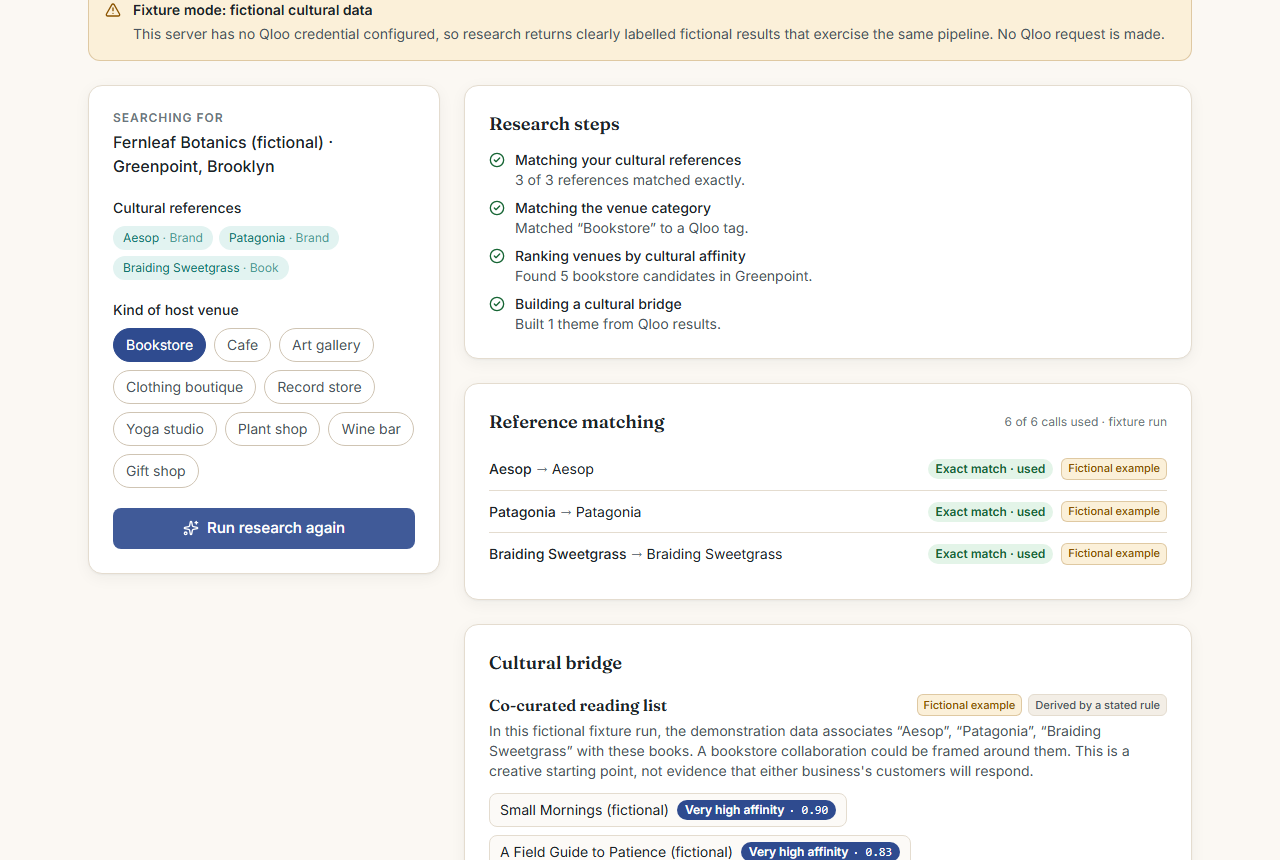
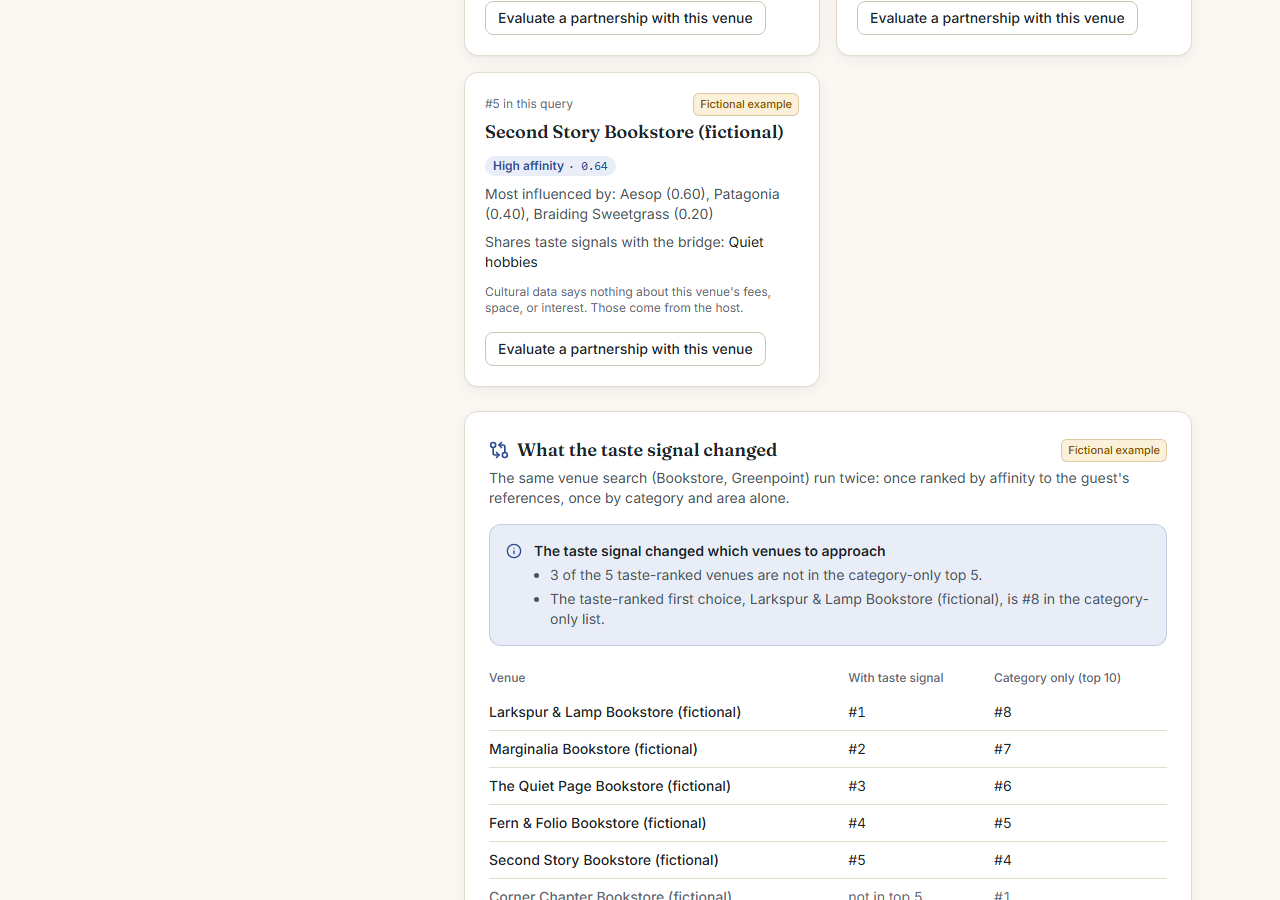
fix: say when the venue is real and only its terms are hypothetical; refresh fixture-mode screenshots

diff --git a/scripts/screenshots.ts b/scripts/screenshots.ts
@@ -1,6 +1,7 @@
 /**
- * Captures README screenshots from a running local instance (fixture mode, fictional example).
- * Usage: npm run dev (or preview), then: npx tsx scripts/screenshots.ts [baseUrl]
+ * Captures README screenshots from a running local instance in fixture mode (fictional data only, never Qloo
+ * responses), following the guided example.
+ * Usage: npm run dev:fixture, then: npx tsx scripts/screenshots.ts [baseUrl]
  */
 import { mkdirSync } from "node:fs";
 import { chromium } from "@playwright/test";
@@ -9,27 +10,38 @@ const base = process.argv[2] ?? "http://localhost:5173";
 mkdirSync("docs/images", { recursive: true });
 
 const browser = await chromium.launch();
-const page = await browser.newPage({ viewport: { width: 1280, height: 860 }, deviceScaleFactor: 1 });
+const page = await browser.newPage({ viewport: { width: 1280, height: 900 }, deviceScaleFactor: 1 });
 await page.setExtraHTTPHeaders({ "cf-connecting-ip": "10.20.30.40" });
+
+const health = (await (await page.request.get(`${base}/api/health`)).json()) as { research: { mode: string } };
+if (health.research.mode !== "fixture") throw new Error("Screenshots must come from fixture mode, so no Qloo data reaches the repository.");
 
 await page.goto(base);
 await page.screenshot({ path: "docs/images/landing.png" });
 
-await page.getByRole("button", { name: /Try the fictional example/ }).click();
-await page.getByRole("button", { name: /Save and continue/ }).click();
-await page.getByRole("button", { name: "Run cultural research" }).click();
-await page.getByRole("heading", { name: "Venue candidates" }).waitFor();
-await page.getByRole("heading", { name: "Cultural bridge" }).scrollIntoViewIfNeeded();
+await page.getByRole("button", { name: /See it in 90 seconds/ }).click();
+await page.getByRole("table", { name: /with the taste signal and with category only/ }).waitFor();
+await page.getByRole("heading", { name: "What the taste signal changed" }).scrollIntoViewIfNeeded();
 await page.screenshot({ path: "docs/images/discovery.png" });
 
-await page.goto(`${base}/workspace/frontier`);
-await page.getByRole("heading", { name: "Trade-offs" }).waitFor();
-await page.getByRole("heading", { name: "Trade-offs" }).scrollIntoViewIfNeeded();
+const guide = page.getByRole("complementary", { name: "Guided example" });
+await guide.getByRole("button", { name: /^Choose / }).click();
+await page.getByText("Where the two sides meet").waitFor();
+await page.getByText("Chosen from cultural research").scrollIntoViewIfNeeded();
+await page.screenshot({ path: "docs/images/host.png" });
+
+await guide.getByRole("button", { name: "See which arrangements work" }).click();
+await page.getByRole("heading", { name: "Agreement Frontier", level: 1 }).waitFor();
 await page.screenshot({ path: "docs/images/frontier.png" });
 
-await page.goto(`${base}/workspace/reversal?option=cohosted_event%3A2`);
-await page.getByRole("heading", { name: "Why is this blocked?" }).scrollIntoViewIfNeeded();
-await page.screenshot({ path: "docs/images/reversal.png", fullPage: false });
+await guide.getByRole("button", { name: "Find the smallest change" }).click();
+await page.getByRole("button", { name: /Apply this change/ }).click();
+await page.getByRole("status").filter({ hasText: "You applied" }).waitFor();
+await page.screenshot({ path: "docs/images/reversal.png" });
+
+await guide.getByRole("button", { name: "Build the decision brief" }).click();
+await page.getByRole("heading", { name: "Activation idea" }).scrollIntoViewIfNeeded();
+await page.screenshot({ path: "docs/images/brief.png" });
 
 await browser.close();
-console.log("Saved docs/images/{landing,discovery,frontier,reversal}.png");
+console.log("Saved docs/images/{landing,discovery,host,frontier,reversal,brief}.png");

diff --git a/src/client/app/Workspace.tsx b/src/client/app/Workspace.tsx
@@ -105,12 +105,20 @@ export function Workspace() {
         </Button>
       </div>
 
-      {state.isExample && (
-        <Callout tone="warn" className="no-print mt-5" title="Fictional example">
-          Both businesses and all of their terms are invented to demonstrate the method. Cultural references are real public names the fictional
-          guest identifies with. Edit anything, or start your own scenario from the home page.
-        </Callout>
-      )}
+      {state.isExample &&
+        (state.host?.source === "hypothetical_scenario" && state.selection?.mode === "live" ? (
+          <Callout tone="warn" className="no-print mt-5" title="Fictional guest, real venue, hypothetical terms">
+            The guest business is invented to demonstrate the method. {state.host.venueName} is a real place suggested by Qloo; every term shown for it
+            is a fictional placeholder that it has not seen or agreed to.
+          </Callout>
+        ) : (
+          <Callout tone="warn" className="no-print mt-5" title="Fictional example">
+            {state.host?.source === "fictional_example" || state.selection?.mode === "fixture"
+              ? "Both businesses and all of their terms are invented to demonstrate the method."
+              : "The guest business and its terms are invented to demonstrate the method."}{" "}
+            Cultural references are real public names the fictional guest identifies with. Edit anything, or start your own scenario from the home page.
+          </Callout>
+        ))}
 
       {!gate && <GuideBanner step={step} />}
 

diff --git a/tests/e2e/guided.spec.ts b/tests/e2e/guided.spec.ts
@@ -32,6 +32,7 @@ test("guided example: cultural reason, chosen venue, why it fails, one change, a
   await expect(page.getByText("From the guest's references")).toBeVisible();
   await expect(page.getByText(`Hypothetical terms: ${venue} has not stated or agreed to any of them`)).toBeVisible();
   await expect(page.getByText("Hypothetical terms · not from the venue")).toBeVisible();
+  if (mode === "live") await expect(page.getByText("Fictional guest, real venue, hypothetical terms")).toBeVisible();
   await expectNoHorizontalScroll(page);
 
   await guide.getByRole("button", { name: "See which arrangements work" }).click();

diff --git a/README.md b/README.md
@@ -36,15 +36,19 @@ Both replaces "this won't work" with "this would work if…", and is honest abou
 | **Decision brief** | A printable draft for both parties: proposed starting point, each side's value hypothesis, the first three questions to ask, cultural evidence with sources, and inputs grouped by provenance. |
 
 <p>
-  <img src="docs/images/discovery.png" alt="Cultural discovery with venue candidates and a cultural bridge" width="49%" />
-  <img src="docs/images/frontier.png" alt="Agreement Frontier trade-off chart and summary" width="49%" />
+  <img src="docs/images/discovery.png" alt="What the taste signal changed: the same venue search with and without the guest's references" width="49%" />
+  <img src="docs/images/host.png" alt="A chosen venue with the guest's side and the venue's own side of the cultural bridge" width="49%" />
+</p>
+<p>
+  <img src="docs/images/frontier.png" alt="Agreement Frontier headline: why the obvious event fails and the closest verified change" width="49%" />
+  <img src="docs/images/reversal.png" alt="Decision Reversal after applying one change, with the before and after status" width="49%" />
 </p>
 
-![Decision Reversal showing why an option is blocked and the what-if controls](docs/images/reversal.png)
+![Decision brief with the hypothetical-terms warning and the activation idea](docs/images/brief.png)
 
-*Screenshots show the fictional example in fixture mode. Both businesses are invented, and fixture cultural
-data is labelled fictional throughout the app. In live mode the same screens show Qloo results labelled
-"Observed in Qloo" with their source request and retrieval time.*
+*Screenshots show the guided example in fixture mode: every business, venue, and cultural result in them is
+fictional and labelled so. In live mode the same screens show Qloo results labelled "Observed in Qloo" with
+their source request and retrieval time, and a real venue's terms are labelled hypothetical.*
 
 ## Principles
 
